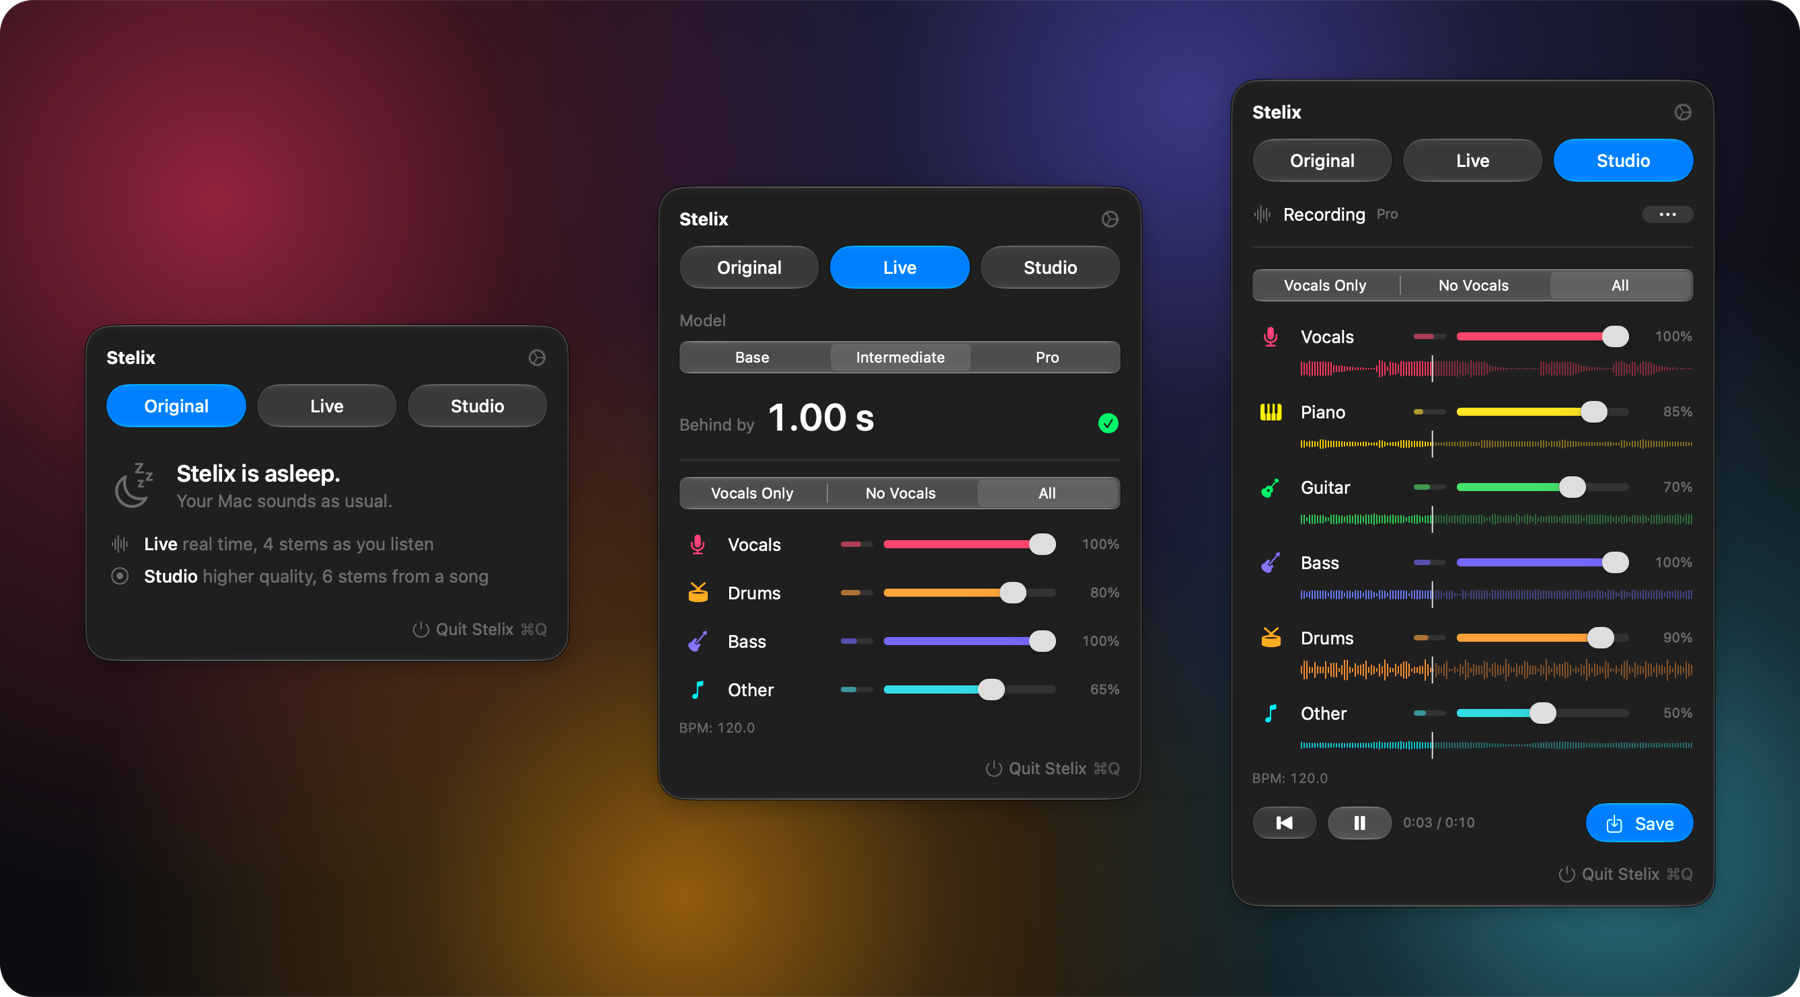
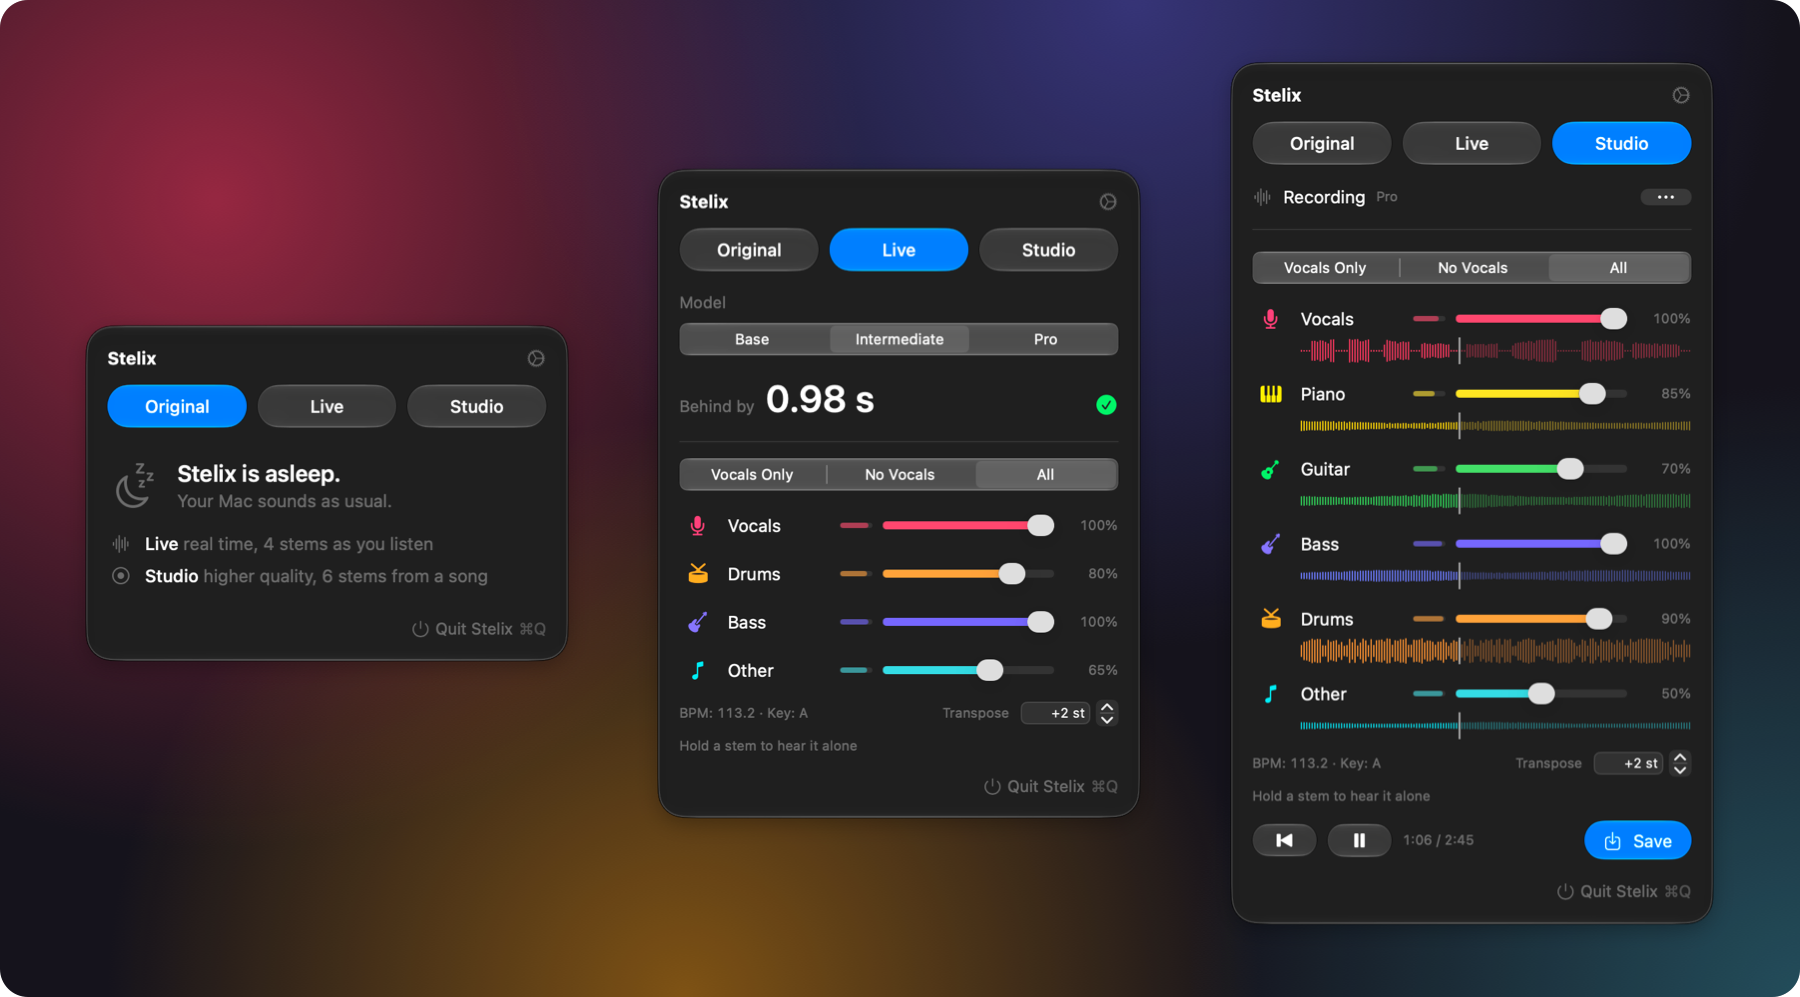
Stelix 1.1.0
Version 1.1.0, build 3. The README describes transpose, the key and the update window, and its image shows the new Live and Studio panels.

diff --git a/README.md b/README.md
@@ -19,7 +19,7 @@
 </p>
 
 <p align="center">
-  <img src="assets/hero.png" alt="Three Stelix panels. Original: Stelix is asleep and the Mac sounds as usual. Live: the Intermediate model, 1.00 seconds behind, four stems with their volume sliders. Studio: a recording separated at the Pro level into six stems, each with its slider and waveform.">
+  <img src="assets/hero.png" alt="Three Stelix panels. Original: Stelix is asleep and the Mac sounds as usual. Live: the Intermediate model, 0.98 seconds behind, four stems with their volume sliders, the BPM, the key and the transpose. Studio: a recording separated at the Pro level into six stems, each with its slider and waveform, with the same BPM, key and transpose.">
 </p>
 
 Stelix is an **always-ready** menu bar app for Apple silicon Mac computers that splits the audio of your Mac into stems: vocals, drums, bass and the rest. It does it **live**, while the music plays, or from a recording or a file, with higher quality and six stems.
@@ -28,7 +28,8 @@ Stelix is an **always-ready** menu bar app for Apple silicon Mac computers that 
 
 - 🎚 **Live.** Whatever your Mac plays, split into 4 stems (vocals, drums, bass, other), about one second behind on a fast Mac. Turn each stem up or down, hold one to hear it alone, or pick a preset such as "Vocals Only". Works with any app, with no audio driver to install.
 - 🎛 **Studio.** Record what your Mac plays, or drop an audio file, and get 6 stems (vocals, drums, bass, guitar, piano, other). Play them in the built-in player and save them as WAV files in `~/Music/Stelix`.
-- 🥁 **BPM.** On macOS 27 and later, Live and Studio show the tempo under the stems, and it follows the song when the tempo changes. It comes from Apple's on-device Music Understanding framework, so earlier versions of macOS don't show it.
+- 🎼 **Transpose.** Move Live and Studio up or down by up to 12 semitones, while the drums stay as they are. In Live it adds about 0.1 seconds to the delay. In Studio, the "Save" button writes the transposed stems to a separate folder.
+- 🥁 **BPM and key.** On macOS 27 and later, Live and Studio show the tempo and the key under the stems, and both follow the song when they change. The key follows the transpose too. They come from Apple's on-device Music Understanding framework, so earlier versions of macOS don't show them.
 - 🌙 **Original.** The app sleeps and your Mac sounds as usual: no background process, 0% CPU, about 20 MB of memory (about 40 MB after an hour of Live). The separation engine runs only while you are in Live or Studio.
 - 🔒 **On your Mac.** Everything runs on your Mac. Audio never leaves it.
 
@@ -77,8 +78,8 @@ xattr -dr com.apple.quarantine /Applications/Stelix.app
 
 ### 🔄 Updating
 
-- Once a day Stelix checks this repository's latest release, and the panel tells you when there is a newer version. "Check Now" in the settings checks at once.
-- **Download…** shows the version, its date and the release notes, then saves the DMG in your Downloads folder. First Stelix checks that the app inside is the announced version, signed with the same certificate as yours; if not, it deletes the file.
+- Once a day Stelix checks this repository's latest release. When there is a newer version, a window opens with what's new, in the app's language. "Check Now" in the settings checks at once.
+- **Download** saves the DMG in your Downloads folder. First Stelix checks that the app inside is the announced version, signed with the same certificate as yours; if not, it deletes the file. **Later** asks again in two days, **Skip This Version** waits for the next one; the settings show the new version anyway.
 - Quit Stelix, open the DMG and drag the new Stelix to Applications, choosing Replace. Your models, settings and audio permission stay.
 
 You can also download the DMG from [Releases](https://github.com/stelix-app/stelix/releases) yourself, as for the first install.
@@ -108,6 +109,7 @@ Measured on a MacBook Pro M3 Max (30 GPU cores, 36 GB of memory) on macOS 27:
 - So far tested only on macOS 27: macOS 15 and 26 are supported, but untested.
 - On the Macs not tried yet, Live may have more delay than on the M3 Max, and Pro may not start (see [Performance](#-performance)).
 - The BPM can be half, double or one and a half times the tempo you would tap, as with any tempo detector, and on speech or noise it may show a number anyway. In Live it is the tempo around what you are hearing, updated every 4 seconds, only while the panel is open.
+- The key is right on most songs. On very complex music, such as songs that move between keys or use unusual harmony, it can be wrong: for example it may show the relative minor (Cm) instead of the major key (E♭). When Stelix is not sure, it shows "—".
 - Some apps write WAV files whose length field is left empty while recording: those cannot be opened. Save them again with any audio editor.
 
 ## 🧠 Models
